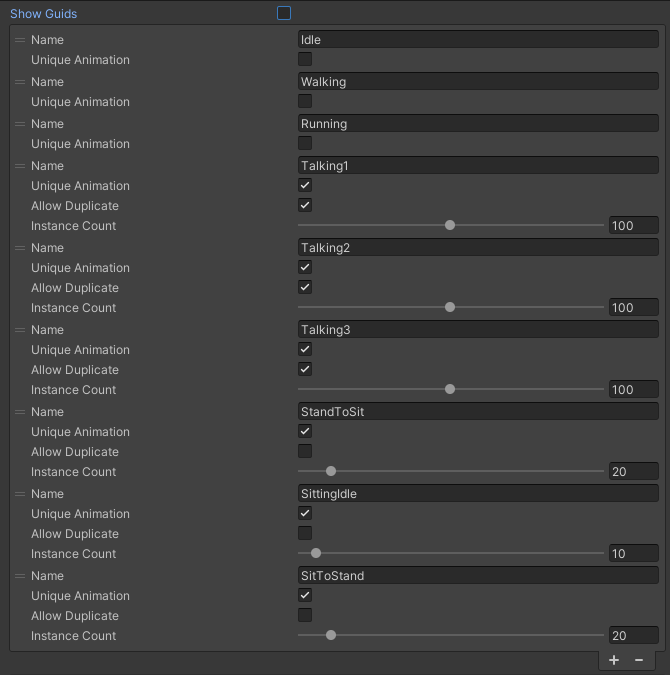
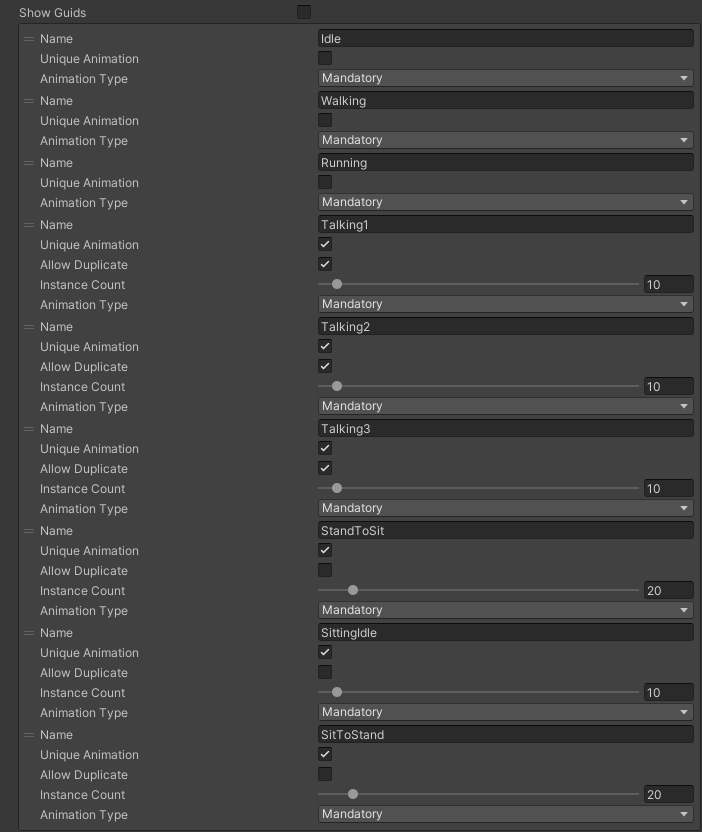
up

diff --git a/docs/source/conf.py b/docs/source/conf.py
@@ -6,8 +6,8 @@ project = 'DOTS Traffic City'
 copyright = '2024, 604Spirit'
 author = '604Spirit'
 
-release = '1.0.4'
-version = '1.0.4'
+release = '1.0.5'
+version = '1.0.5'
 
 # -- General configuration
 

diff --git a/docs/source/playerCar.rst b/docs/source/playerCar.rst
@@ -1,0 +1,98 @@
+.. _playerCar:
+
+Player Car
+=====
+
+.. contents::
+   :local:
+
+Common Info
+----------------
+
+* Each player car only works in :ref:`Hybrid custom physics <entityType>` type & consists of 2 parts: `DOTS` entity is handled by DOTS systems & `Monobehaviour` hybrid skin (required for camera tracking & npc car layout) that follows the binded :ref:`DOTS entity <playerHybridDots>`.
+* Player hybrid skin car should have following components:
+
+	* **Player Actor** : camera tracking component.
+	* **PlayerNpcCarBehaviour** : logic of the NPC shooting from the car.
+	* **CarSlots** : stores the NPC data that is in the car (Npcs sitting in the car are taken from the `PlayerNpcCarFactory`).
+
+	.. note::
+		Look at `PlayerCarSkinBase` prefab example.
+
+.. _playerHybridDots:
+
+Hybrid DOTS
+----------------
+
+* Player vehicle physics handled by `DOTS` systems.
+* The hybrid skin follows the `DOTS` entity.
+
+How To Create
+~~~~~~~~~~~~
+
+#. Open :ref:`Car Prefab Creator <carPrefabCreator>` & set `Car type` to `Player` in the `Prefab` tab.
+#. Set `Player simulation type` to `Hybrid DOTS` in the `Prefab` tab.
+#. Make sure `Player simulation type` is set to :ref:`Hybrid DOTS <playerHybridDotsConfig>` in the player car settings.
+#. Create a vehicle using the :ref:`Car Prefab Creator <carPrefabCreator>` tool.
+#. Create prefab variant from the `PlayerCarSkinBase` prefab & assign to `:ref:`Player Car Pool <playerCarPool>` according to the vehicle.
+#. Customize the car slots in the created prefab if you plan to make the NPC's shooting option from the car **[optional step]**.
+
+.. _playerHybridMono:
+
+Hybrid Mono
+----------------
+
+* Player vehicle physics handled by custom user's `Monobehaviour physics plugin` **[experimental]**.
+* Unlike the :ref:`Hybrid DOTS <playerHybridDots>`, the entity following the skin.
+* The `DOTS entity` collider processes the collision with the `DOTS physics world` & adds impulses to the vehicle's `Rigidbody <https://docs.unity3d.com/ScriptReference/Rigidbody.html>`_ according to the calculated impulse.
+
+* List of vehicle controllers from the Asset Store that can be used for (e.g.) 
+	* `Edy's Vehicle Physics <https://assetstore.unity.com/packages/tools/physics/edy-s-vehicle-physics-403>`_
+	* `Realistic Car Controller Pro <https://assetstore.unity.com/packages/tools/physics/realistic-car-controller-pro-178967>`_
+	* `NWH Vehicle Physics 2 <https://assetstore.unity.com/packages/tools/physics/nwh-vehicle-physics-2-166252>`_
+	* `Universal Vehicle Controller (Plus) <https://assetstore.unity.com/packages/tools/physics/universal-vehicle-controller-plus-176314>`_
+	* `MS Vehicle System (Vehicle controller) <https://assetstore.unity.com/packages/tools/physics/ms-vehicle-system-vehicle-controller-88035>`_
+	* `Sim-Cade Vehicle Physics <https://assetstore.unity.com/packages/tools/physics/sim-cade-vehicle-physics-243624>`_
+
+	.. note::
+		* To make the vehicle work, the scene should have default Unity `colliders <https://docs.unity3d.com/ScriptReference/Collider.html>`_.
+		* Processing the `default physical world <https://docs.unity3d.com/Manual/PhysicsSection.html>`_ may require additional CPU resources.
+
+How To Create
+~~~~~~~~~~~~
+
+#. Open the :ref:`Car Prefab Creator <carPrefabCreator>` & set `Car type` to `Player` in the `Prefab` tab.
+#. Set `Player simulation type` to `Hybrid mono` in the `Prefab` tab.
+#. Set the `Hybrid mono` in the :ref:`Player car settings <playerHybridMonoConfig>` config.
+#. Drag & drop your desired prefabs into the `Prefabs` field.
+#. Click the `Scan` button.
+#. Customize :ref:`Save settings <carPrefabCreatorSaveSettings>` in the `Save` tab.
+#. In the `Prefab Info` tab, enter the vehicle :ref:`ids <trafficId>` (:ref:`ids <trafficId>` should match the traffic cars :ref:`ids <trafficId>` if you want to make option enter & exit for the player npc).
+#. Click the `Create` button.
+#. Ensure that the bounds of the entities created match the prefabs you have selected.
+#. Input for the player vehicle is implemented according to your vehicle controller plugin.
+#. The input enable & disable for the car when the player's npc exits & enters the car should be implemented in the `PlayerInteractCarService.cs` in the `EnterCar` & `ExitCar` methods.
+
+.. _playerCarPool:
+
+Player Car Pool
+----------------
+
+Where To Find
+~~~~~~~~~~~~
+
+In the scene:
+
+	``Hub/Pools/Car/PlayerCarPool``
+	
+	.. image:: /images/configs/player/PlayerCarPool.png
+	
+How To Use
+~~~~~~~~~~~~
+
+Player cars spawned by `PlayerCarSpawner`.
+
+Example
+~~~~~~~~~~~~
+
+	.. image:: /images/configs/player/PlayerCarPoolExample.png

diff --git a/docs/source/pedestrianInit.rst b/docs/source/pedestrianInit.rst
@@ -98,7 +98,7 @@ Pure GPU Skin
 
 .. _crowdSkinFactory:
 
-Factory
+How To Create
 """"""""""""""
 
 	#. :ref:`Create textures and animation sheets <animationBaker>`.
@@ -149,6 +149,7 @@ Factory
 			.. image:: /images/pedestrian/baker/GenerateMaterialExample.png
 		
 	#. Select entry & assign animations:	
+	
 		#. **Animation baker binding:**
 			#. :ref:`Bind <animationBakerBind>` the animation on the baking texture step.
 		
@@ -169,9 +170,64 @@ Factory
 		.. note:: In the current version of the project, all pedestrians should have all the animations from the :ref:`Animation Collection <animationGPUAnimationCollection>` (will be changed in the near future).
 		
 	#. Assign animations to each entry in the same way.
+	
+	#. Add custom optional animations for the desired pedestrians **[optional step]**.
+		#. In the :ref:`Animation Collection <animationGPUAnimationCollection>` add new `Optional` animations.
+		#. Tick on `Show optional animation popup` in Pedestrian crowd skin factory settings.
+		#. Add desired optional animations in the character list of the factory.
+		#. Bind added animations.		
+
 	#. Assign :ref:`Ragdolls <pedestrianRagdoll>`. **[optional step]**.
 	
 		.. image:: /images/pedestrian/baker/PedestrianGPURagdolleExample.png
+	
+How To Use
+""""""""""""""
+
+| **Code example:**
+
+..  code-block:: r
+	
+        private NativeHashMap<SkinAnimationHash, HashToIndexData> hashToLocalDataLocalRef;
+
+        void ISystemStartStop.OnStartRunning(ref SystemState state)
+        {
+            hashToLocalDataLocalRef = CrowdSkinProviderSystem.HashToLocalDataStaticRef;
+        }
+
+        [BurstCompile]
+        void ISystem.OnUpdate(ref SystemState state)
+        {
+            var switchAnimJob = new SwitchAnimJob()
+            {
+                HashToLocalData = hashToLocalDataLocalRef,
+            };
+
+            switchAnimJob.Schedule();
+        }
+
+        [BurstCompile]
+        public partial struct SwitchAnimJob : IJobEntity
+        {
+            [ReadOnly]
+            public NativeHashMap<SkinAnimationHash, HashToIndexData> HashToLocalData;
+
+            void Execute(
+                Entity entity,
+                ref SkinUpdateComponent skinUpdateComponent,
+                EnabledRefRW<UpdateSkinTag> updateSkinTagRW)
+            {
+                var animHash = 54335363; // Some animation hash
+
+				AnimEntitiesUtils.UpdateAnimation(ref skinUpdateComponent, ref updateSkinTagRW, animHash);
+            }
+        }
+    }
+		
+**Used in systems:**
+	* GPUAnimatorSystem
+	* GPUAnimatorCustomSitStateSystem
+	* GPUTalkAnimatorSystem
 	
 .. _animationTextureData:
 
@@ -326,7 +382,7 @@ How To Create
 #. Assign the result to :ref:`PedestrianHybridLegacyFactory <pedestrianHybridLegacy>` or :ref:`PedestrianCrowdSkinFactory <crowdSkinFactory>` depending on the :ref:`type of rig <pedestrianSettingsConfig>` you have chosen.
 
 	.. note:: 
-		* Implemented by `PedestrianRagdollSystem`.
+		* Implemented by `RagdollSystem`.
 		* Currently only collides with default `colliders <https://docs.unity3d.com/ScriptReference/Collider.html>`_
 		* Make sure, that the scene contains `default colliders <https://docs.unity3d.com/ScriptReference/Collider.html>`_.
 		* Read more info about the :ref:`Physics Transfer Service <physicsShapeTransfer>` on how to clone legacy colliders.

diff --git a/docs/source/animationbaker.rst b/docs/source/animationbaker.rst
@@ -33,6 +33,17 @@ How To Bake
 		.. image:: /images/pedestrian/baker/window/AnimationDataExample.png
 		`AnimationData result example.`
 		
+.. _animationBakerHowToMulti:
+		
+How To Bake Multi-Mesh
+------------
+
+	#. Enable `Multimesh` type in the :ref:`Settings type <animationBakerSettings>`.
+	#. Customize modular character with desired skinned mesh renderers.
+	#. Add gameobjects with the desired attachments to the child of the desired bone **[optional step]**.
+	#. Drag & drop character parents to source skin list.
+	#. Make the same :ref:`steps <animationBakerSettings>` for baking.
+		
 Baker Window
 ------------
 
@@ -51,6 +62,7 @@ Settings
 	* **Common** : shows common settings (custom offset & custom animation name).
 	* **Transition mode** : allows you to preview the transition from one animation to another in the editor.
 	* **Animation binding** : shows binding settings of the :ref:`Animation collection <animationGPUAnimationCollection>`.
+	* **Multimesh** : allows you to bake animations with multi-skin renderers or with custom attachments **[v1.0.5+]**.
 
 | **Add normal texture** : add normal texture.
 
@@ -297,11 +309,15 @@ Settings
 	
 	.. image:: /images/pedestrian/baker/animator/AnimationCollectionExample.png
 
-
 | **Name** : animation name.
+
 **Unique animation** : a unique animation mesh instance pool will be created for this animation.
 	* **Allow duplicate** : is it allowed to take an animation from the pool if it is already being used by another character.
 	* **Instance count** : animation pool size.
+	
+**Animation type:** 
+	* **Mandatory** : each entity of the crowd must have this animation.
+	* **Optional** : each entity of the crowd doesn't necessarily have to have this animation [:ref:`step 16 <crowdSkinFactory>`].
 
 .. _animationGPUAnimatorContainer:
 

diff --git a/docs/source/playerNpc.rst b/docs/source/playerNpc.rst
@@ -1,0 +1,35 @@
+.. _playerNpc:
+
+Player Npc
+=====
+
+.. contents::
+   :local:
+
+Components
+-------------------	
+
+:ref:`Player <playerNpcFactory>` npc components:
+
+	.. image:: /images/configs/player/PlayerNpcComponents.png
+	
+| * **Player actor** : camera tracking component **[required]**.
+| * **Npc behaviour entity** : holds reference to bind entity & read input from `DOTS entity world`, also controls animator & npc weapon behaviour **[required]**.
+| * **Npc weapon holder** : reference to the anchor bone that holds the weapon & reference to the weapon.
+| * **Npc hit reaction behaviour** : behaviour that handles the reaction to a bullet hit.
+| * **Ragdoll base** : activates `Ragdoll` when the NPC dies.
+| * **Npc health entity behaviour* : wrapper for entity health in the `Monobehaviour` world.
+
+	.. note::
+	
+		.. image:: /images/configs/player/PlayerSpawner.png
+		Spawned by `PlayerSpawner`.
+	
+.. _playerNpcFactory:
+	
+Factory
+-------------------	
+
+Factory that contains player NPCs;
+
+	.. image:: /images/configs/player/PlayerNpcFactory.png

diff --git a/docs/source/playerConfig.rst b/docs/source/playerConfig.rst
@@ -1,0 +1,41 @@
+.. _playerConfig:
+
+Player Configs
+=====
+
+.. contents::
+   :local:
+
+Player Car Settings
+-------------------	
+
+.. _playerHybridDotsConfig:
+
+Hybrid DOTS
+~~~~~~~~~~~~
+
+Player vehicle physics handled by `DOTS` systems.
+
+	.. image:: /images/configs/player/PlayerCarSettings.png
+	
+.. _playerHybridMonoConfig:
+
+Hybrid Mono
+~~~~~~~~~~~~
+
+How To Use
+^^^^^^^^^^^^^^^^^^^^^^^^^^^
+
+How to create player car with custom `Monobehaviour physics` read :ref:`this <playerHybridMonoHowTo>`.	
+	
+Settings
+^^^^^^^^^^^^^^^^^^^^^^^^^^^
+
+	.. image:: /images/configs/player/PlayerCarSettingsMono.png
+	
+Player Npc Sound Config
+-------------------	
+
+	.. image:: /images/configs/player/PlayerNpcSoundConfig.png
+	
+| **Footstep frequency** : :ref:`sound <soundData>` frequency of the player's footsteps.	

diff --git a/docs/source/changelog.rst b/docs/source/changelog.rst
@@ -3,6 +3,22 @@
 Change Log
 ************
 
+[1.0.5] - 12-04-2024
+------------
+
+Added
+~~~~~~~~~~~~
+
+* New :ref:`multi-mesh <animationBakerHowToMulti>` customization support for GPU animations. 
+* New custom :ref:`attachments <animationBakerHowToMulti>` support for GPU animations. 
+* New custom GPU animation :ref:`option <crowdSkinFactory>` for selected pedestrians . 
+* Integration for custom  :ref:`player vehicle controller <playerHybridMono>` which controlled by MonoBehaviour script **[experimental]**. 
+
+Fixed
+~~~~~~~~~~~~
+
+* Animation GPU baking with animated parent.
+
 [1.0.4] - 04-04-2024
 ------------
 

diff --git a/docs/source/commonConfigs.rst b/docs/source/commonConfigs.rst
@@ -104,16 +104,6 @@ Other Settings
 | **Hide UI** : on/off UI.
 | **Show FPS** : on/off fps ui panel.
 
-Player Configs
--------------------	
-
-Player Npc Sound Config
-~~~~~~~~~~~~
-
-	.. image:: /images/configs/common/PlayerNpcSoundConfig.png
-	
-| **Footstep frequency** : :ref:`sound <soundData>` frequency of the player's footsteps.
-	
 Sound Configs
 -------------------	
 

diff --git a/docs/source/index.rst b/docs/source/index.rst
@@ -18,6 +18,7 @@ how to :ref:`install` the project.
    road.rst
    traffic.rst
    pedestrian.rst
+   player.rst
    npc.rst
    streaming.rst
    common.rst

diff --git a/docs/source/player.rst b/docs/source/player.rst
@@ -1,0 +1,12 @@
+.. _player:
+
+*******
+Player
+*******
+
+	.. toctree::
+		:maxdepth: 2
+
+		/playerNpc.rst
+		/playerCar.rst
+		/playerConfig.rst
